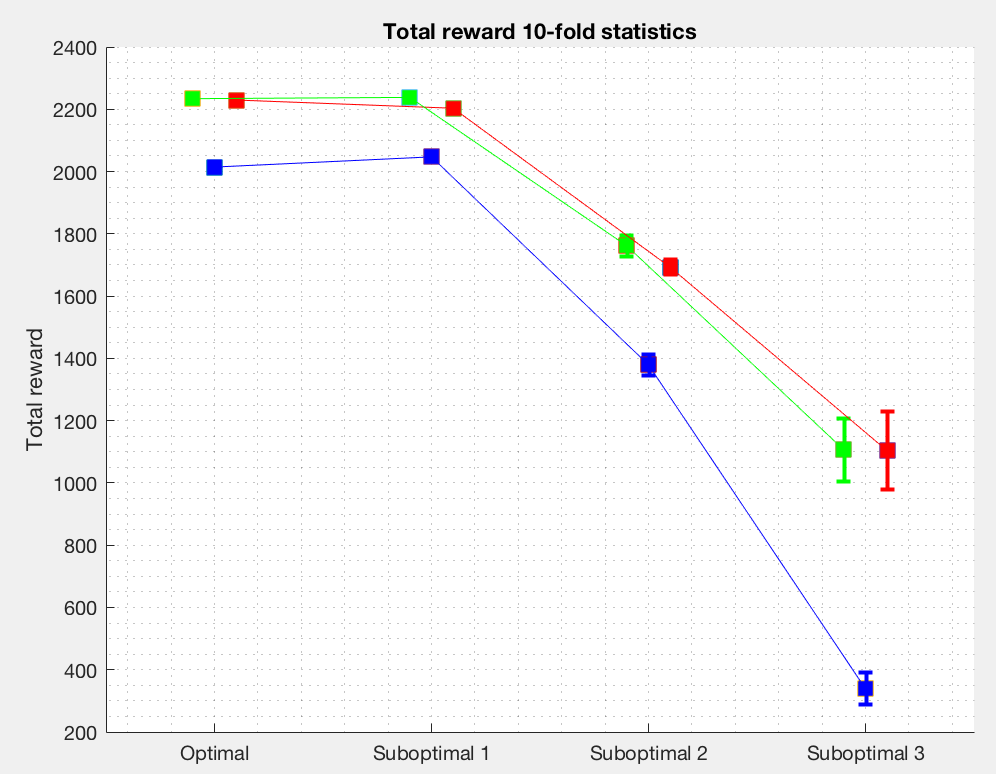
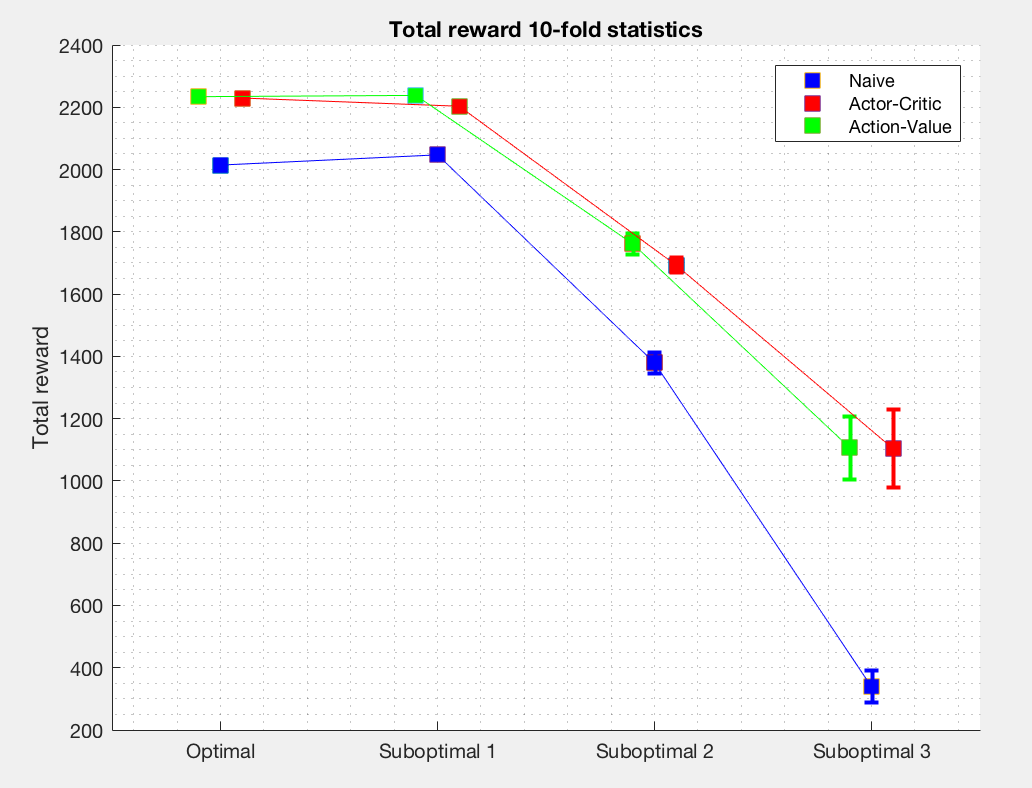
Adds legend to metrics plots

diff --git a/code/metrics_main.m b/code/metrics_main.m
@@ -89,17 +89,18 @@ errorbar(2.1,ac_2_index,av_2_index_var,'LineWidth',2,'Color','r');
 plot(1.9,av_2_index,'s','MarkerFaceColor','g','MarkerSize',10);
 errorbar(1.9,av_2_index,av_2_index_var,'LineWidth',2,'Color','g');
 %  subopt 3
-plot(3,naive_3_index,'s','MarkerFaceColor','b','MarkerSize',10);
+a = plot(3,naive_3_index,'s','MarkerFaceColor','b','MarkerSize',10);
 errorbar(3,naive_3_index,naive_3_index_var,'LineWidth',2,'Color','b');
-plot(3.1,ac_3_index,'s','MarkerFaceColor','r','MarkerSize',10);
+b= plot(3.1,ac_3_index,'s','MarkerFaceColor','r','MarkerSize',10);
 errorbar(3.1,ac_3_index,ac_3_index_var,'LineWidth',2,'Color','r');
-plot(2.9,av_3_index,'s','MarkerFaceColor','g','MarkerSize',10);
+c = plot(2.9,av_3_index,'s','MarkerFaceColor','g','MarkerSize',10);
 errorbar(2.9,av_3_index,av_3_index_var,'LineWidth',2,'Color','g');
 % evolution plot
 plot([0 1 2 3],[naive_opt_index, naive_1_index, naive_2_index, naive_3_index],'b-');
 plot([0.1 1.1 2.1 3.1],[ac_opt_index, ac_1_index, ac_2_index, ac_3_index],'r-');
 plot([-0.1 0.9 1.9 2.9],[av_opt_index, av_1_index, av_2_index, av_3_index],'g-');
 
+h = legend([a,b,c],'Naive','Actor-Critic','Action-Value');
 grid minor;
 axis([-0.5 3.5 10 240]);
 xticks([0 1 2 3])
@@ -160,17 +161,18 @@ errorbar(2.1,ac_2_cr_mean,ac_2_cr_var,'LineWidth',2,'Color','r');
 plot(1.9,av_2_cr_mean,'s','MarkerFaceColor','g','MarkerSize',10);
 errorbar(1.9,av_2_cr_mean,av_2_cr_var,'LineWidth',2,'Color','g');
 % subopt 3
-plot(3,naive_3_cr_mean,'s','MarkerFaceColor','b','MarkerSize',10);
+a = plot(3,naive_3_cr_mean,'s','MarkerFaceColor','b','MarkerSize',10);
 errorbar(3,naive_3_cr_mean,naive_3_cr_var,'LineWidth',2,'Color','b');
-plot(3.1,ac_3_cr_mean,'s','MarkerFaceColor','r','MarkerSize',10);
+b = plot(3.1,ac_3_cr_mean,'s','MarkerFaceColor','r','MarkerSize',10);
 errorbar(3.1,ac_3_cr_mean,ac_3_cr_var,'LineWidth',2,'Color','r');
-plot(2.9,av_3_cr_mean,'s','MarkerFaceColor','g','MarkerSize',10);
+c= plot(2.9,av_3_cr_mean,'s','MarkerFaceColor','g','MarkerSize',10);
 errorbar(2.9,av_3_cr_mean,av_3_cr_var,'LineWidth',2,'Color','g');
 % evolution 
 plot([0 1 2 3],[naive_opt_cr_mean, naive_1_cr_mean, naive_2_cr_mean, naive_3_cr_mean],'b-');
 plot([0.1 1.1 2.1 3.1],[ac_opt_cr_mean, ac_1_cr_mean, ac_2_cr_mean, ac_3_cr_mean],'r-');
 plot([-0.1 0.9 1.9 2.9],[av_opt_cr_mean, av_1_cr_mean, av_2_cr_mean, av_3_cr_mean],'g-');
 
+h = legend([a,b,c],'Naive','Actor-Critic','Action-Value');
 axis([-0.5 3.5 200 2400]);
 xticks([0 1 2 3]);
 grid minor;
